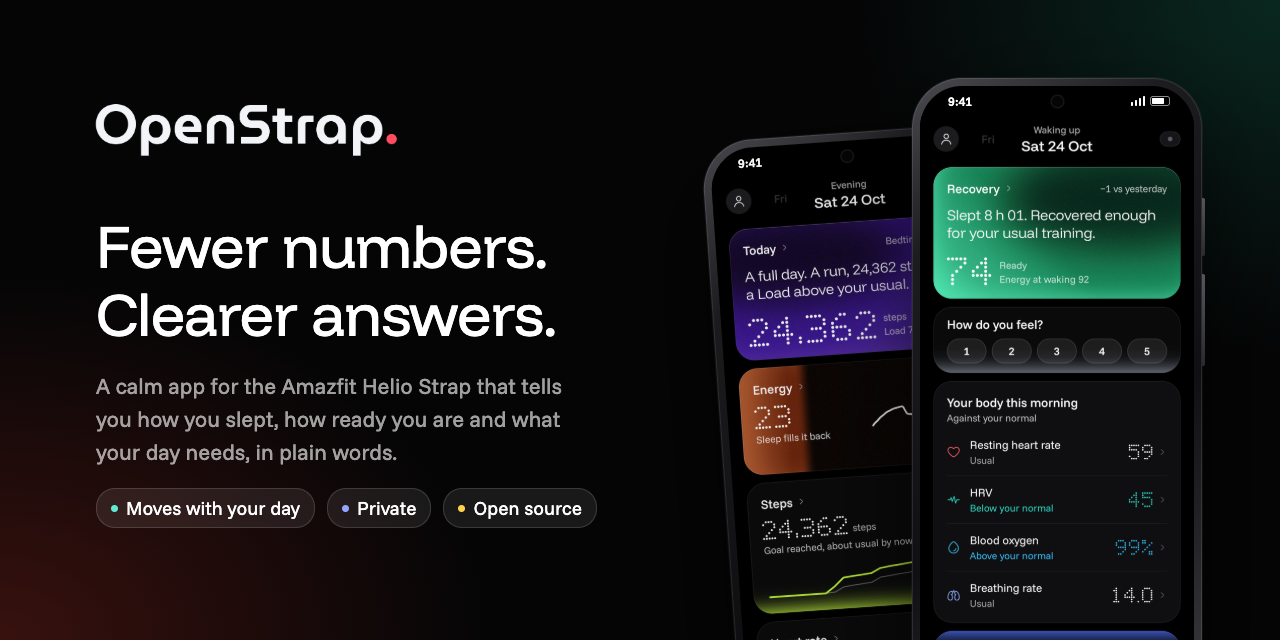
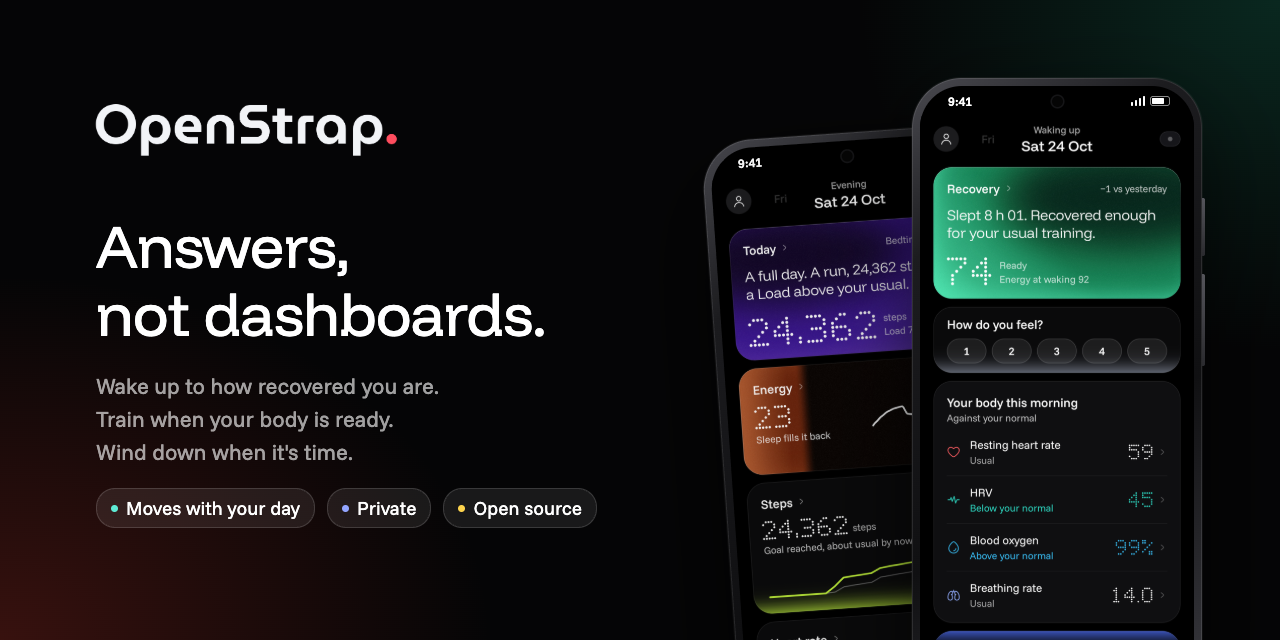
Answers, not dashboards
The new headline and its three lines (wake up, train, wind down) in the social
preview and at the top of the README.

Changed region(s): [[0.0625, 0.3438, 0.4375, 0.5312], [0.0625, 0.5938, 0.4375, 0.7188]]

diff --git a/docs/assets/social-preview.html b/docs/assets/social-preview.html
@@ -31,8 +31,8 @@ h1{position:absolute;left:96px;top:212px;margin:0;font-family:FD;font-weight:400
 .front{left:912px;top:78px}
 </style></head><body>
 <img class="logo" src="logo-dark.png">
-<h1>Fewer numbers.<br>Clearer answers.</h1>
-<div class="sub">A calm app for the Amazfit Helio Strap that tells<br>you how you slept, how ready you are and what<br>your day needs, in plain words.</div>
+<h1>Answers,<br>not dashboards.</h1>
+<div class="sub">Wake up to how recovered you are.<br>Train when your body is ready.<br>Wind down when it's time.</div>
 <div class="chips">
  <div class="chip"><span class="dot" style="background:#5eead4"></span>Moves with your day</div>
  <div class="chip"><span class="dot" style="background:#93a5ff"></span>Private</div>

diff --git a/README.md b/README.md
@@ -7,7 +7,9 @@
 
 # OpenStrap
 
-**Fewer numbers. Clearer answers.**
+**Answers, not dashboards.**
+
+Wake up to how recovered you are. Train when your body is ready. Wind down when it's time.
 
 OpenStrap is a calm Android app for the **Amazfit Helio Strap**. Other apps hand you dashboards to read. OpenStrap tells you how you slept, how ready you are and what your day needs, in plain words. It replaces the Zepp app, syncs your sleep, heart rate, HRV, SpO₂, stress and workouts, and keeps everything on your phone.
 
